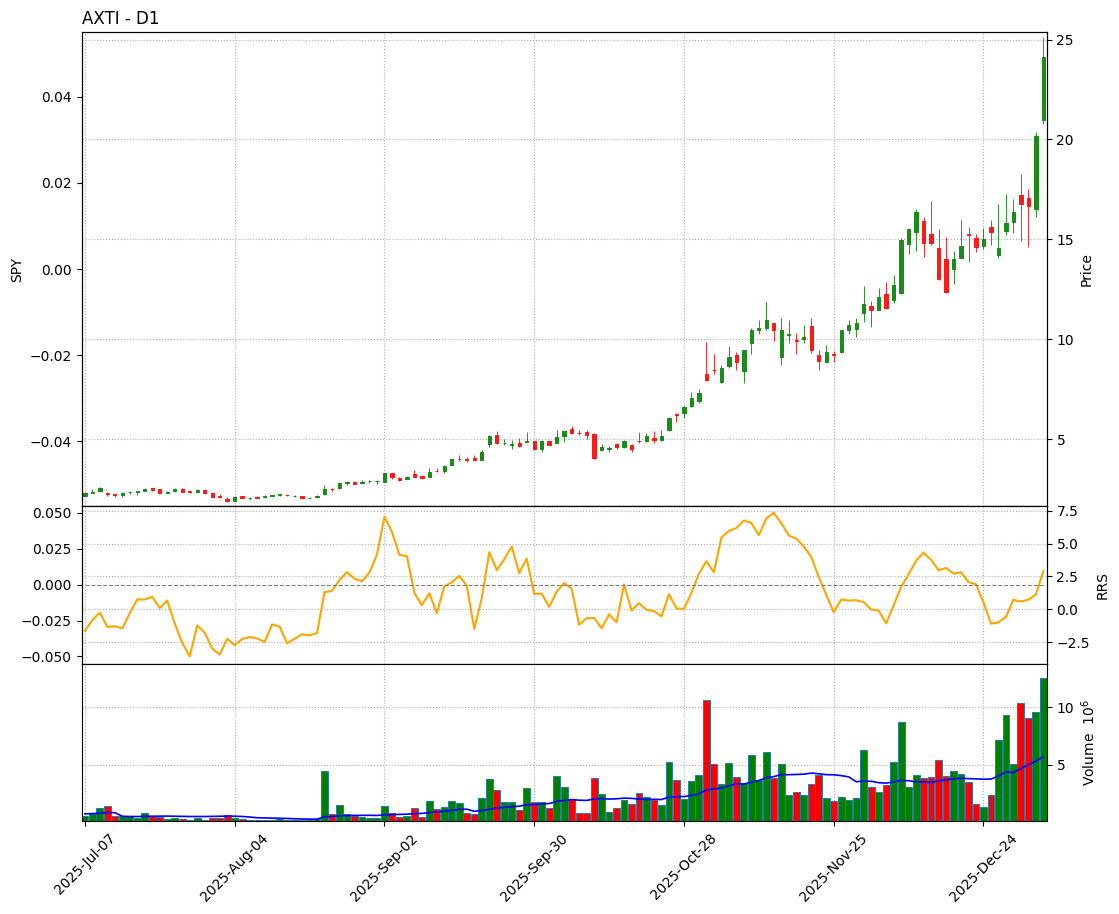
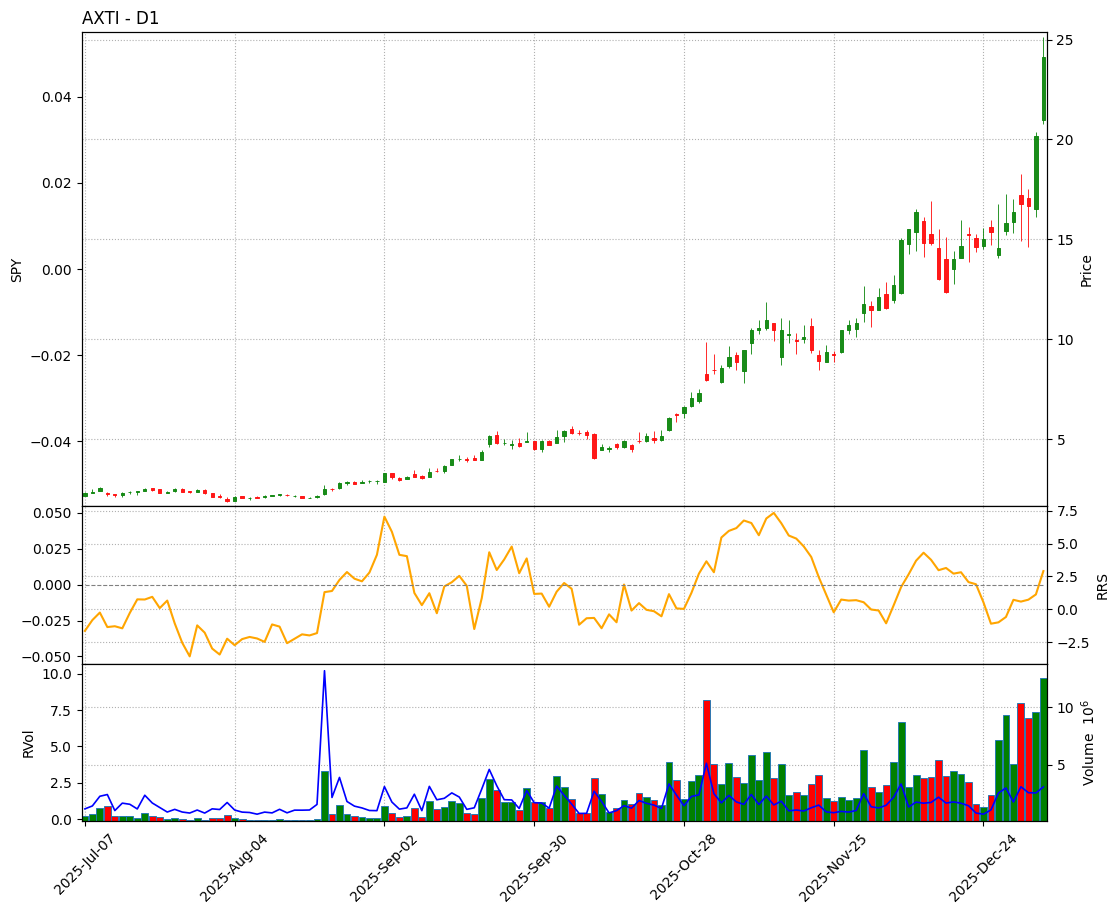
feat: Update RDT chart to overlay RVol instead of Volume SMA
- Modified `RDT-system/chart_generator.py`:
  - Replaced the Volume SMA overlay in the bottom panel (Panel 2) with the RVol (Relative Volume) indicator.
  - Configured RVol to plot on a secondary y-axis (`secondary_y=True`) to correctly handle the scale difference between Volume bars and the RVol ratio.
- Verified chart generation for ticker `AXTI`.

diff --git a/RDT-system/chart_generator.py b/RDT-system/chart_generator.py
@@ -59,8 +59,9 @@ class RDTChartGenerator:
         apds.append(mpf.make_addplot(zero_line, panel=1, color='gray', linestyle='--', width=0.8))
 
         # --- Panel 2: Volume + RVol Overlay ---
-        # Overlay: Vol_SMA_20 (Blue Line) on Volume Panel (2)
-        apds.append(mpf.make_addplot(plot_df['Vol_SMA_20'], panel=2, color='blue', width=1.2))
+        # Overlay: RVol (Blue Line) on Volume Panel (2) with Secondary Y-Axis
+        # We use secondary_y=True because RVol (ratio ~1.0) scale is different from Volume (millions).
+        apds.append(mpf.make_addplot(plot_df['RVol'], panel=2, color='blue', width=1.2, secondary_y=True, ylabel='RVol'))
 
         # 5. Styling
         mc = mpf.make_marketcolors(up='green', down='red', edge='inherit', wick='inherit', volume='inherit')
